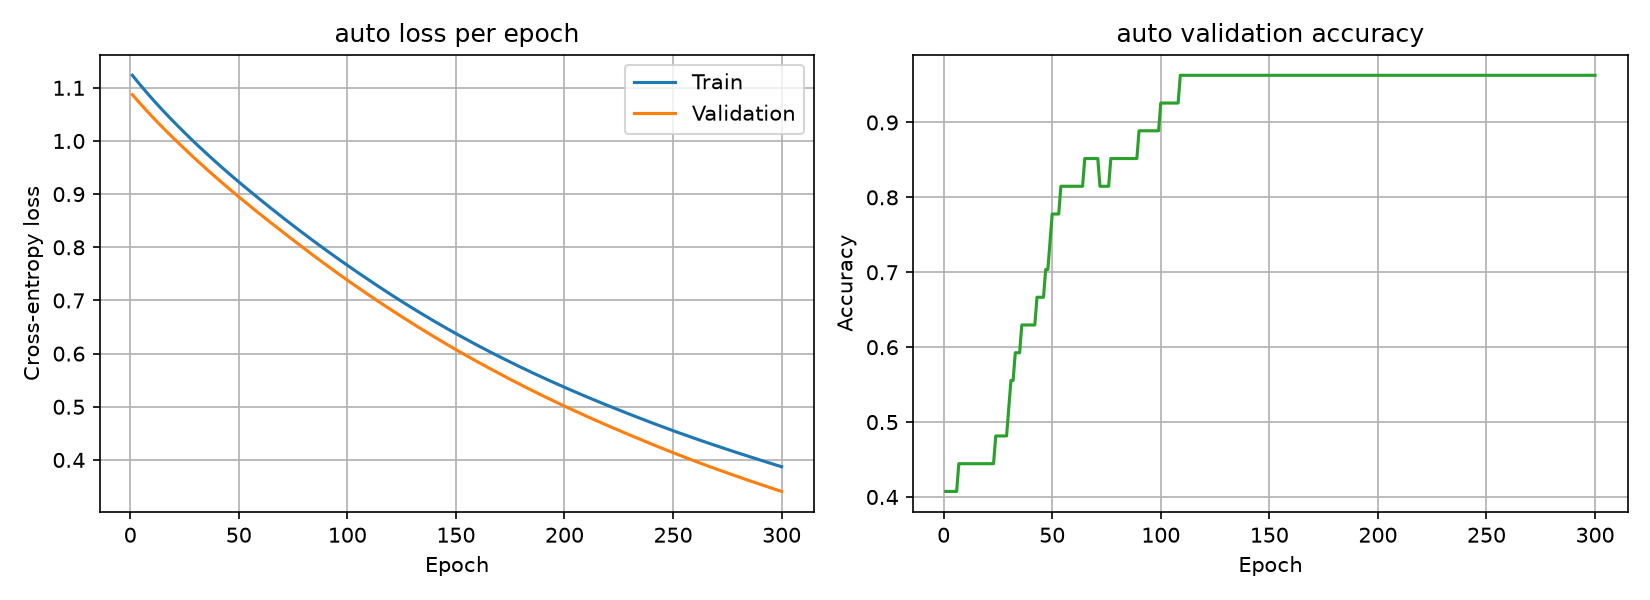
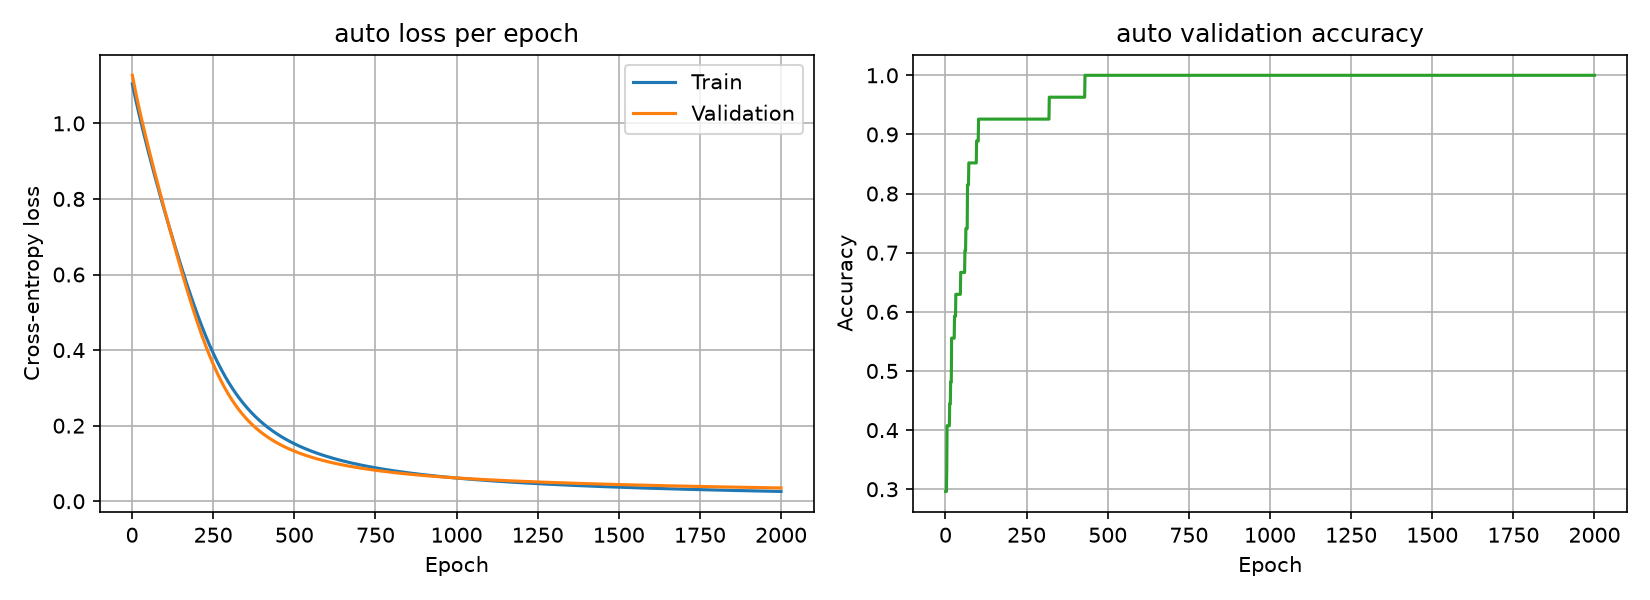
chore: went back to 2000 run epoch

diff --git a/src/config.py b/src/config.py
@@ -7,7 +7,7 @@ class Config:
     seed: int = 42
     test_size_split: float = 0.15
     val_size_split: float = 0.15
-    epochs: int = 300
+    epochs: int = 2000
     learning_rate: float = 0.01
 
 
